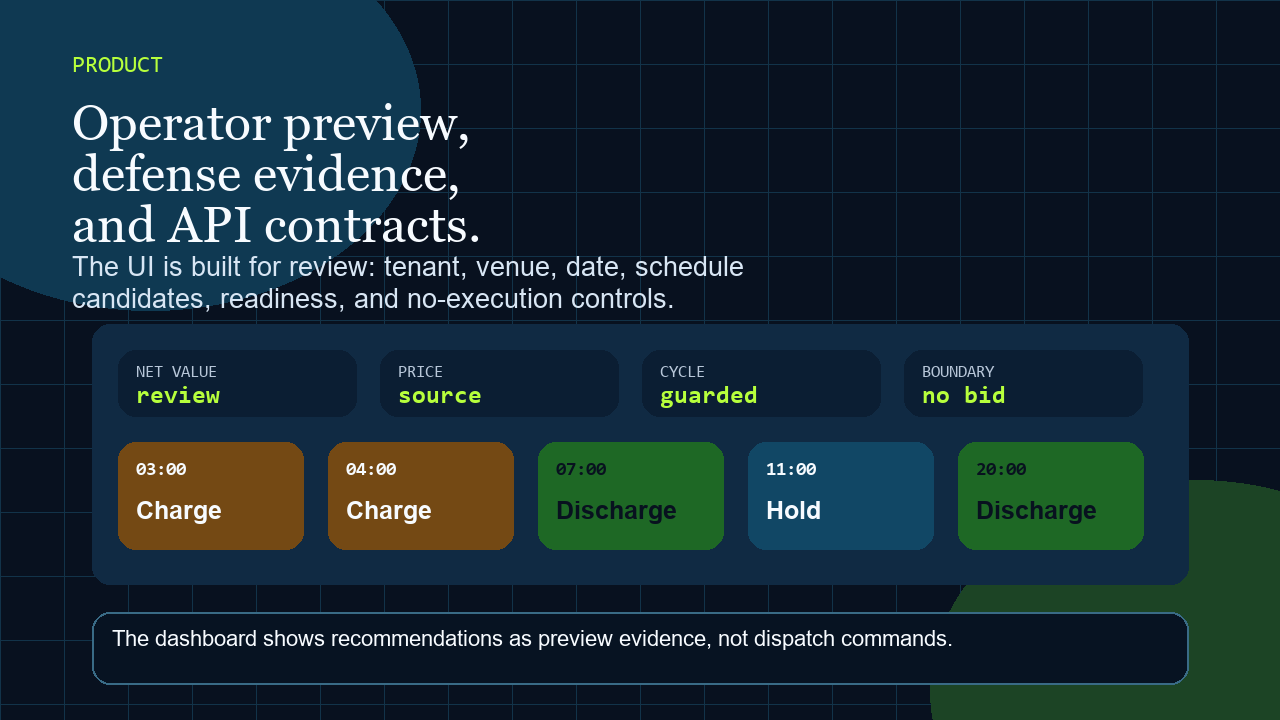
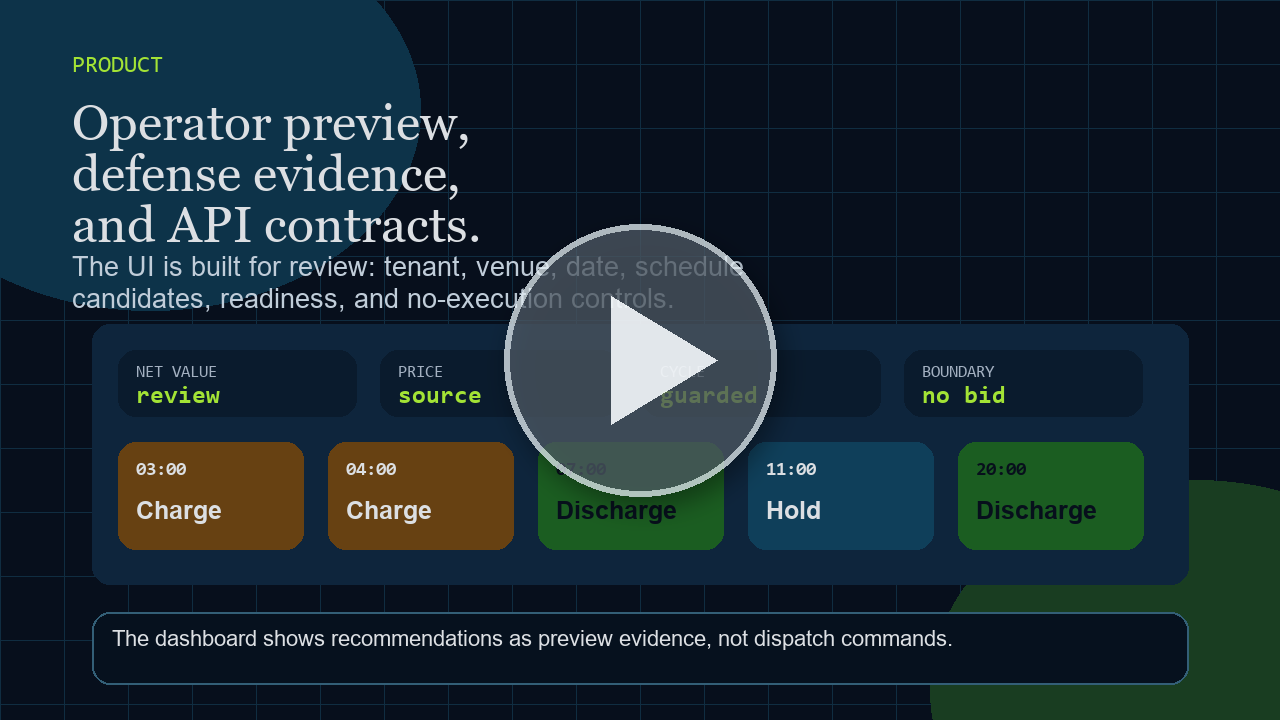
Use clickable intro video poster

diff --git a/README.md b/README.md
@@ -12,16 +12,7 @@ trading bot, not a market-submission engine, and not production dispatch.
 
 Watch the 42-second English intro video:
 
-<video
-  src="https://raw.githubusercontent.com/ilyafefelov/Diploma/main/docs/technical/final-demo-assets/project-intro.mp4"
-  poster="https://raw.githubusercontent.com/ilyafefelov/Diploma/main/docs/technical/final-demo-assets/project-intro-poster.png"
-  controls
-  width="100%"
->
-  Project intro video.
-</video>
-
-[Open the playable GitHub Pages video](https://ilyafefelov.github.io/Diploma/project-intro/)
+[![Project intro video poster](docs/technical/final-demo-assets/project-intro-poster.png)](https://ilyafefelov.github.io/Diploma/project-intro/)
 
 The video introduces the concept first, then the product surface: source-backed
 DAM/IDM operator preview, read-model evidence, deterministic boundaries, and no
